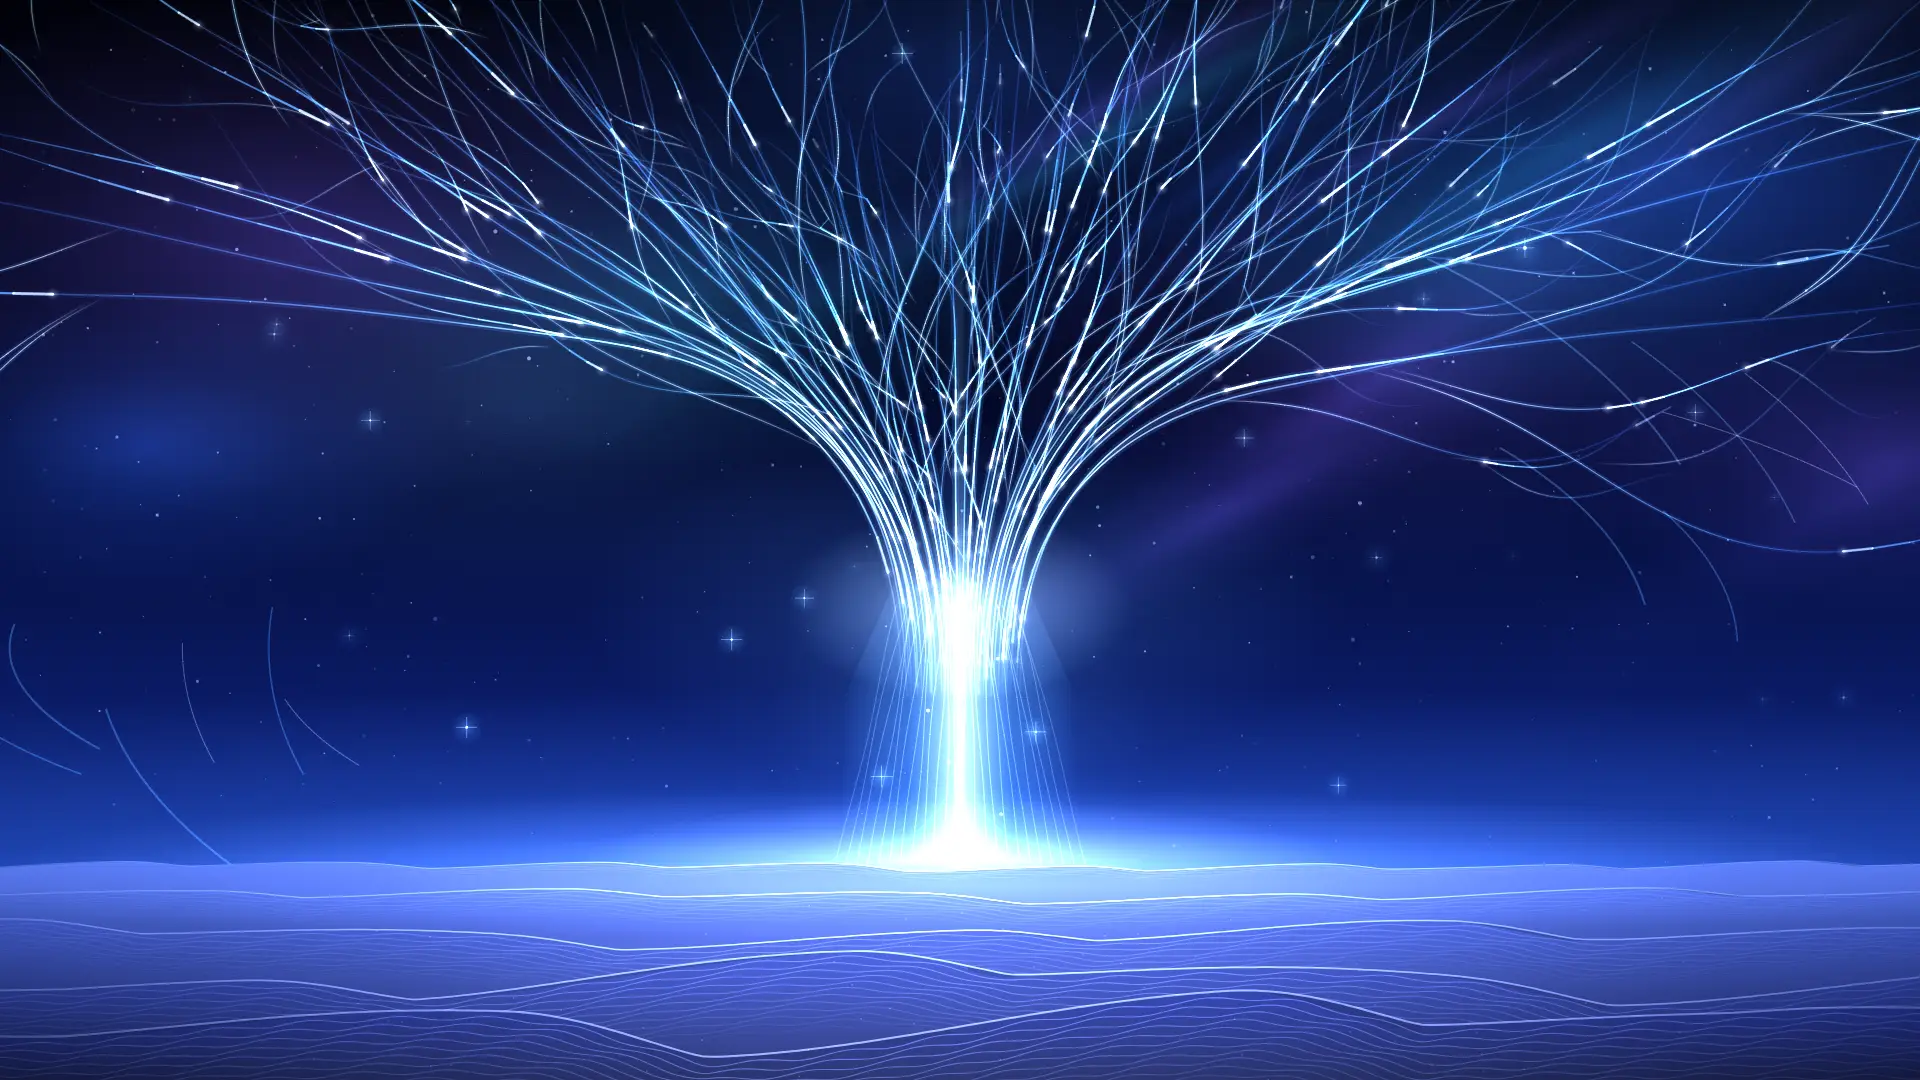
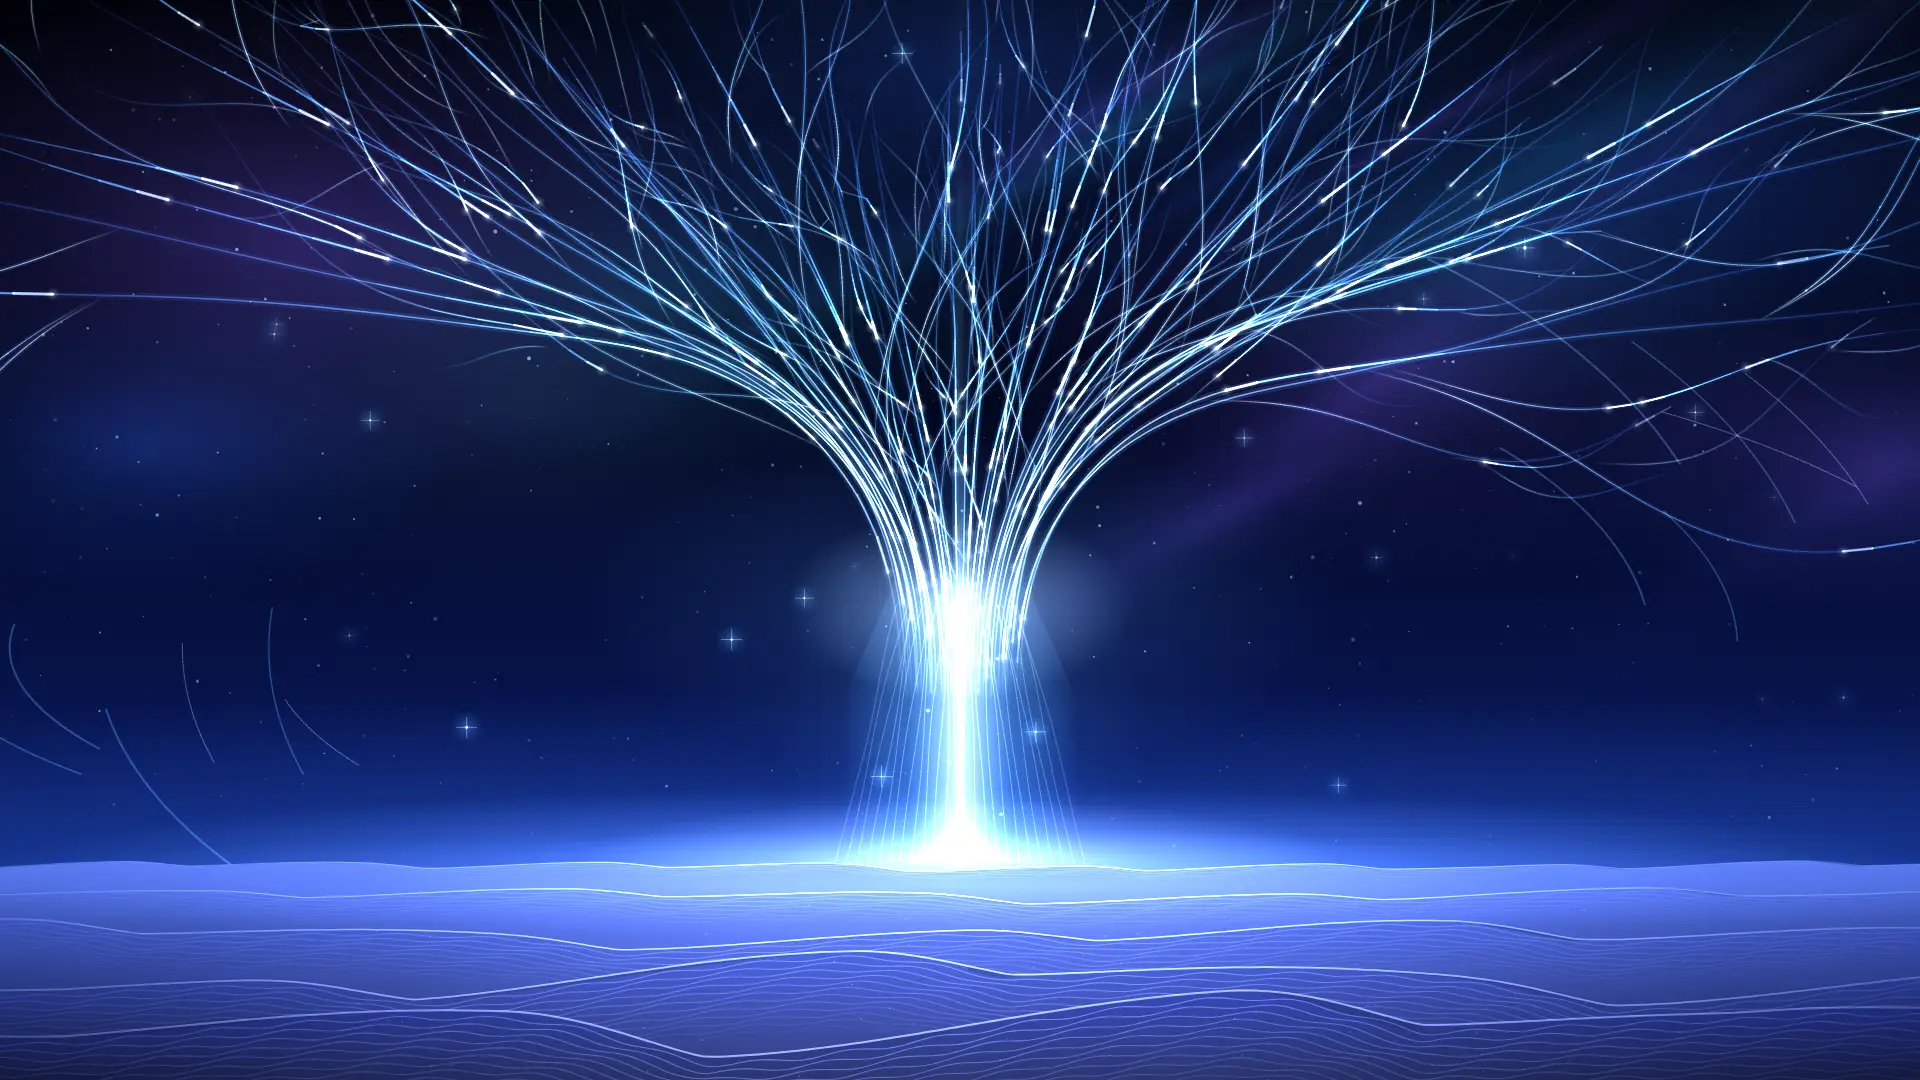
style(landing): darken the night sky and soften blue and teal clouds
Deepen the sky gradient and reduce the blue, cyan and teal cloud and wisp glow
so the tree stands out against a closer-to-night sky. The static fallback still
is regenerated from the same scene.

diff --git a/apps/web/components/landing/backdrop/sky.ts b/apps/web/components/landing/backdrop/sky.ts
@@ -50,14 +50,14 @@ export interface Sky {
 
 const CLOUDS: readonly Cloud[] = [
   { x: 0.15, y: 0.25, size: 0.5, color: VIOLET, alpha: 0.17 },
-  { x: 0.85, y: 0.2, size: 0.55, color: BLUE, alpha: 0.22 },
+  { x: 0.85, y: 0.2, size: 0.55, color: BLUE, alpha: 0.12 },
   { x: 0.5, y: 0.1, size: 0.55, color: BLUE, alpha: 0.16 },
-  { x: 0.3, y: 0.5, size: 0.4, color: CYAN, alpha: 0.1 },
+  { x: 0.3, y: 0.5, size: 0.4, color: CYAN, alpha: 0.07 },
   { x: 0.75, y: 0.45, size: 0.4, color: VIOLET, alpha: 0.135 },
-  { x: 0.06, y: 0.5, size: 0.3, color: BLUE, alpha: 0.2 },
+  { x: 0.06, y: 0.5, size: 0.3, color: BLUE, alpha: 0.15 },
   { x: 0.95, y: 0.5, size: 0.3, color: VIOLET, alpha: 0.135 },
-  { x: 0.35, y: 0.32, size: 0.35, color: TEAL, alpha: 0.12 },
-  { x: 0.8, y: 0.32, size: 0.3, color: TEAL, alpha: 0.1 },
+  { x: 0.35, y: 0.32, size: 0.35, color: TEAL, alpha: 0.09 },
+  { x: 0.8, y: 0.32, size: 0.3, color: TEAL, alpha: 0.075 },
 ];
 
 export function createSky(starCount: number, seed = 5): Sky {
@@ -120,9 +120,9 @@ export function drawSky(f: Frame, sky: Sky): void {
   const { ctx, width, horizon, time } = f;
   const gradient = ctx.createLinearGradient(0, 0, 0, horizon);
   gradient.addColorStop(0, "#01020a");
-  gradient.addColorStop(0.45, "#030826");
-  gradient.addColorStop(0.8, "#0a1a63");
-  gradient.addColorStop(1, "#1a3a9a");
+  gradient.addColorStop(0.45, "#02061c");
+  gradient.addColorStop(0.8, "#07134a");
+  gradient.addColorStop(1, "#112a78");
   ctx.globalCompositeOperation = "source-over";
   ctx.fillStyle = gradient;
   ctx.fillRect(0, 0, width, f.height);
@@ -160,7 +160,7 @@ export function drawSky(f: Frame, sky: Sky): void {
       wisp.length * width,
       wisp.width * width,
       wisp.color,
-      wisp.alpha * shimmer,
+      wisp.alpha * 0.8 * shimmer,
       wisp.angle,
     );
   }
